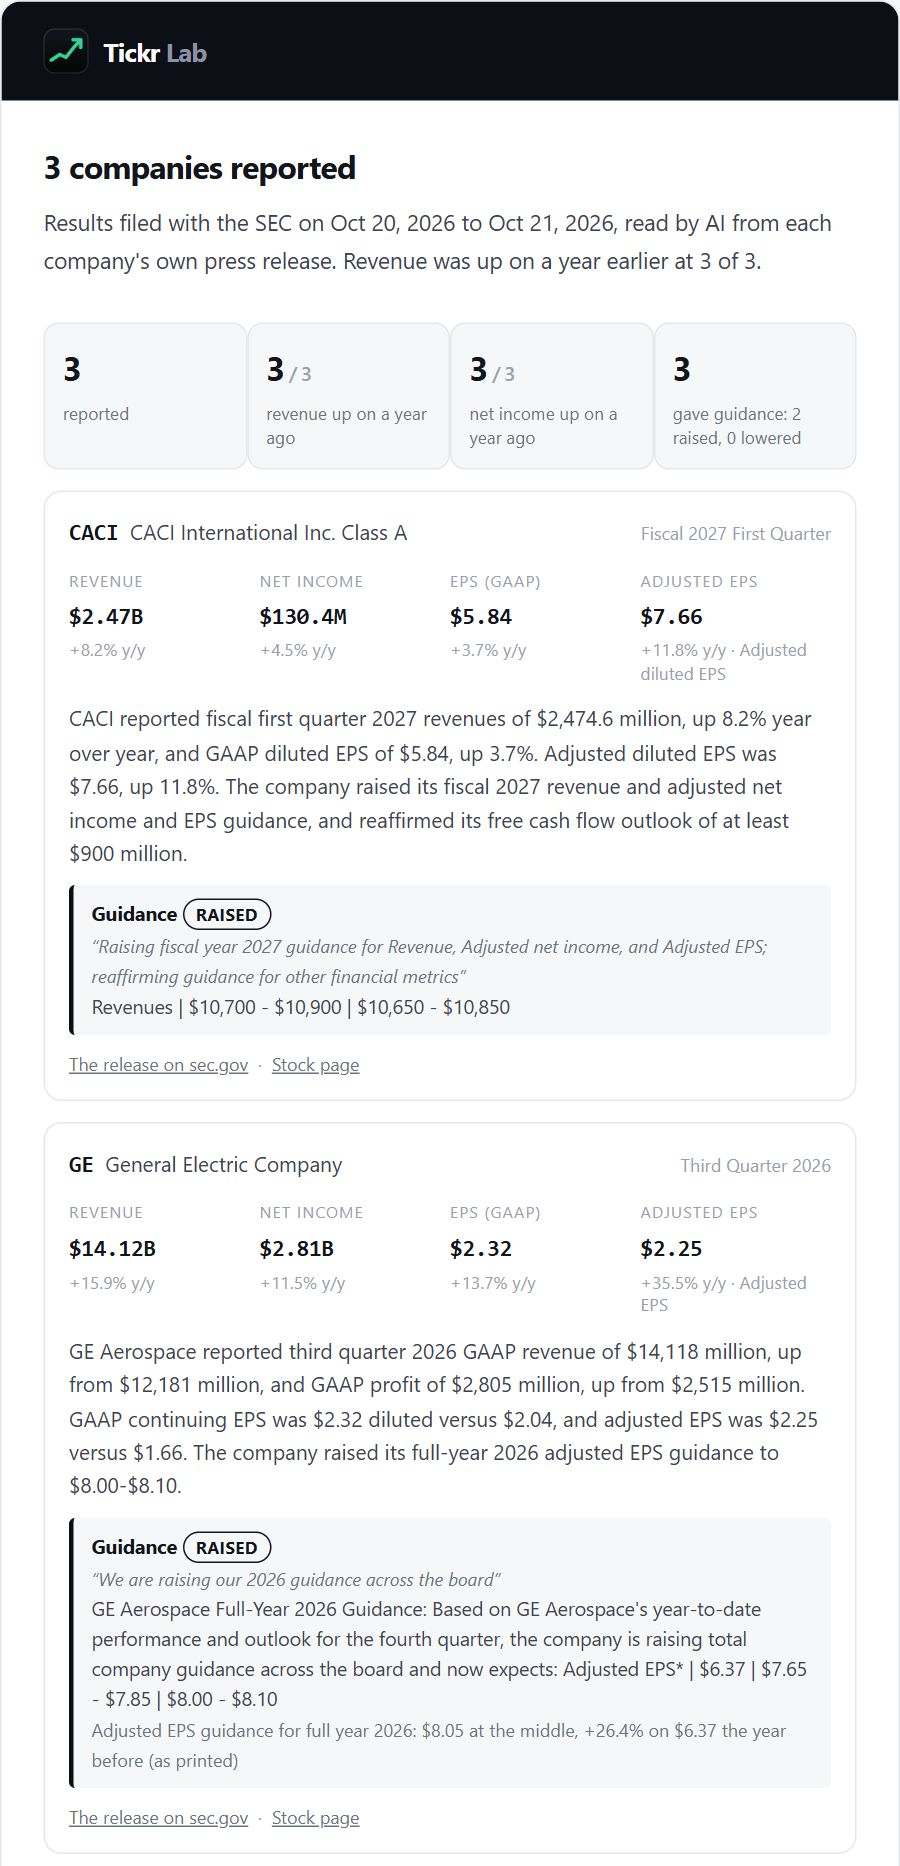
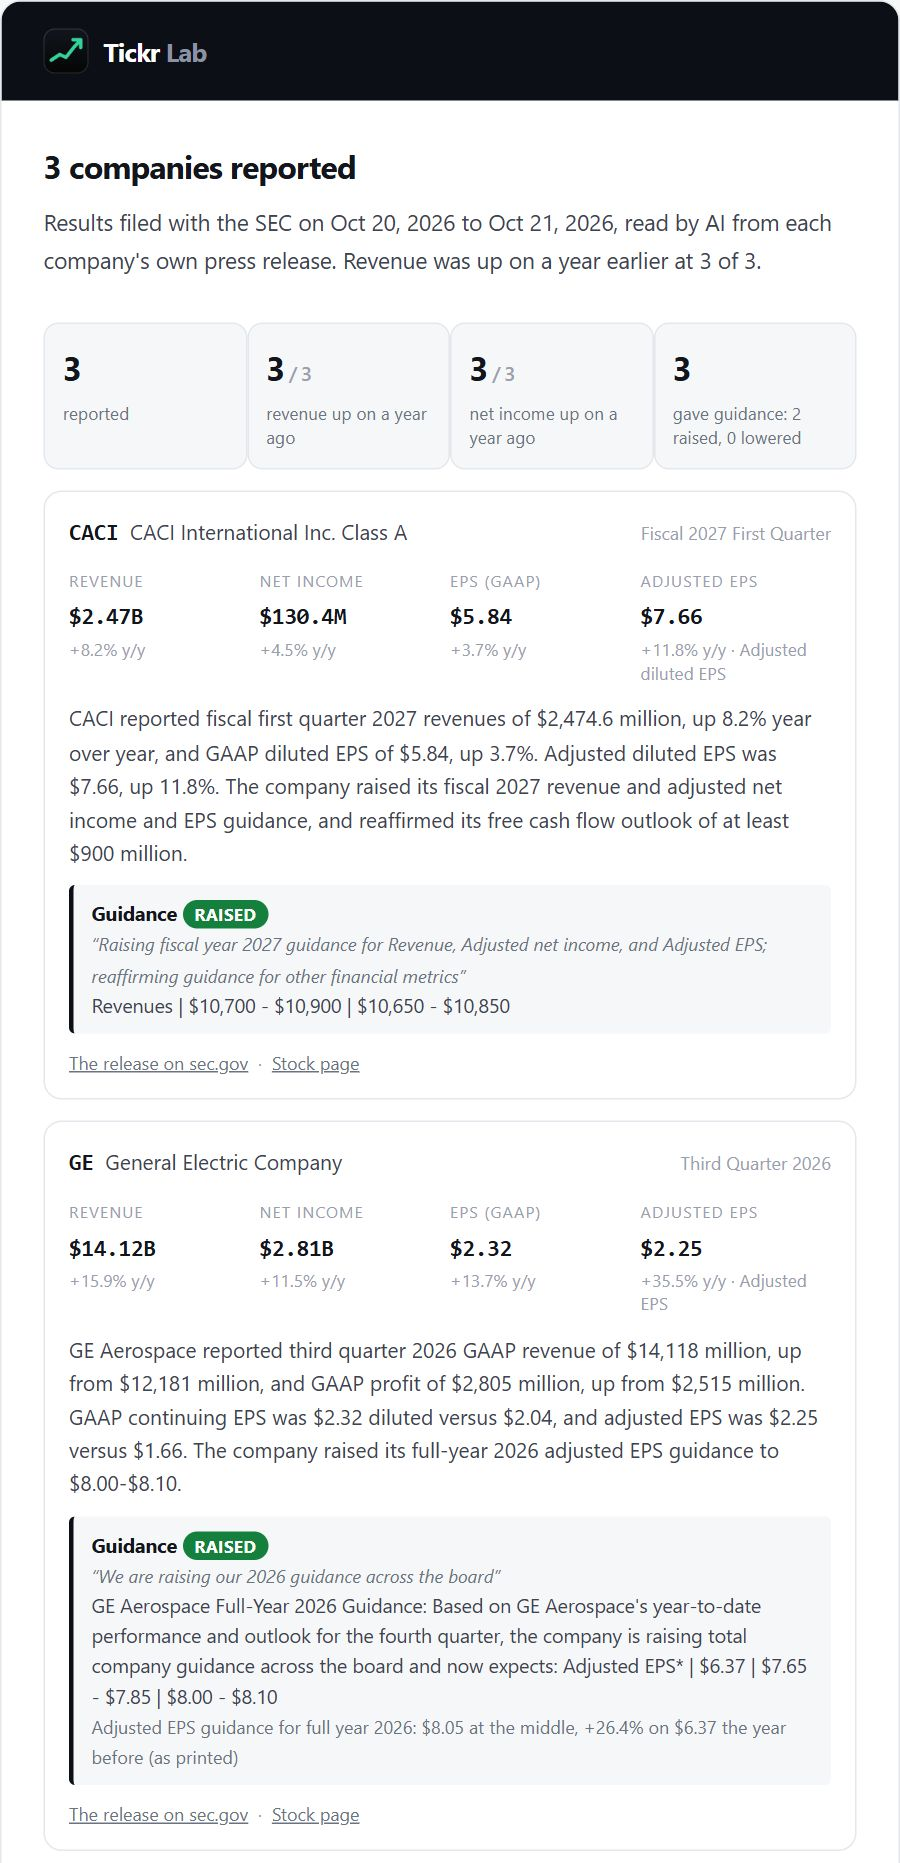
Guidance change label in colour: raised dark green, everywhere
A filled label defined once (app.css tokens and .gch, ReleaseView.changeTag,
the same hex for the email): Raised dark green, Lowered and Withdrawn dark
red, Mixed orange, Initiated blue, Reaffirmed slate. On the screener, the
public results page, the email and the stock page fields; the landing
screenshot retaken. The owner's exception to green-and-red-mean-price is
recorded in CLAUDE.md.

diff --git a/server.js b/server.js
@@ -732,7 +732,7 @@ function resultsPage(rels, names, today) {
         cell(htmlEsc(RV.money(r.netIncome, cur)), pctTxt(pct(r.netIncome, r.netIncomePrior))) +
         cell(htmlEsc(RV.eps(r.epsGaap, cur)), pctTxt(pct(r.epsGaap, r.epsGaapPrior))) +
         adj +
-        `<td class="er-sum">${htmlEsc(r.summary || '')}${r.guideSentence ? `<span class="er-guide">Guidance${r.guideChange ? ' <b class="er-ch">' + htmlEsc(r.guideChange) + '</b>' : ''}: ${htmlEsc(r.guideSentence)}</span>` : ''}</td>` +
+        `<td class="er-sum">${htmlEsc(r.summary || '')}${r.guideSentence ? `<span class="er-guide">Guidance${r.guideChange ? ' ' + RV.changeTag(r.guideChange, r.guideChangeQuote ? '“' + r.guideChangeQuote + '”' : '') : ''}: ${htmlEsc(r.guideSentence)}</span>` : ''}</td>` +
         `<td>${/^https:\/\/www\.sec\.gov\//.test(r.url || '') ? `<a href="${htmlEsc(r.url)}" target="_blank" rel="noopener">The release</a>` : ''}</td>` +
         '</tr>';
     }).join('');
@@ -3325,6 +3325,8 @@ const MAIL_DARK_RULES = (D) => [
   [['.em-card .em-panel'], `background:${D.pre};border-color:${D.line}`],
   [['.em-card div'], `color:${D.body}`],
   [['.em-card .em-ink'], `color:${D.ink};border-color:${D.ink}`],
+  // The guidance change label keeps its white ink on its own fill.
+  [['.em-card .em-pill'], 'color:#ffffff'],
   [['.em-card .em-box', '.em-card .em-row td'], `border-color:${D.line}`],
   // Scoped under .em-card deliberately: a bare .em-quiet is one class against
   // .em-card p's class-plus-element and loses, so the kicker and the captions
@@ -3620,7 +3622,9 @@ function releaseDigestEmail(rels, names) {
   // The company's word for what it did, as a small outlined label, with its
   // quote under it; then the two readings, a quiet line each.
   const gch = (r) => (r.guideChange && CHANGE[r.guideChange]
-    ? `&nbsp;<span class="em-ink"${st(`display:inline-block;padding:1px 8px;border:1px solid ${MC.ink};border-radius:999px;font-size:11px;font-weight:700;letter-spacing:0.04em;text-transform:uppercase;color:${MC.ink}`)}>${mailEsc(CHANGE[r.guideChange])}</span>`
+    // Filled in the label's colour (ReleaseView.CHANGE_HEX, the app.css tokens'
+    // values): raised dark green, as the owner asked on 2026-10-23.
+    ? `&nbsp;<span class="em-pill"${st(`display:inline-block;padding:1px 8px;border-radius:999px;background:${RV.CHANGE_HEX[r.guideChange] || '#475569'};font-size:11px;font-weight:700;letter-spacing:0.04em;text-transform:uppercase;color:#ffffff`)}>${mailEsc(CHANGE[r.guideChange])}</span>`
       + (r.guideChangeQuote ? `<br><span class="em-quiet"${st(`font-size:12px;font-style:italic;color:${MC.mute}`)}>“${mailEsc(r.guideChangeQuote)}”</span><br>` : '<br>')
     : '');
   const sgn = (p) => (p > 0 ? '+' : p < 0 ? '−' : '') + Math.abs(p).toFixed(1) + '%';

diff --git a/releases-test.js b/releases-test.js
@@ -265,6 +265,11 @@ check('request: no maxItems (the structured-output API refuses it on arrays)', !
   check('readings: a full-year revenue item is not set against a quarter', Rel.guideReadings({ revenue: 100, guides: [items[0]] }).revVsQ === null);
   check('readings: a loss year before gives no percent', Rel.guideReadings(Object.assign({}, row, { guides: [items[3]], epsGuidePrior: -1.2 })).epsVsFy === null);
   check('readings: an old row without items falls back to the headline quarter item', Math.abs(Rel.guideReadings({ revenue: 100, guideKind: 'revenue_range', guidePeriod: 'Fourth Quarter 2026', guideLow: 105, guideHigh: 115 }).revVsQ - 10) < 1e-9);
+  // The label's colours: the email's hex and the app.css tokens agree, and the tag names its class.
+  const css = require('fs').readFileSync(__dirname + '/public/app.css', 'utf8');
+  const tok = {}; for (const m of css.matchAll(/--gch-(\w+):\s*(#[0-9a-f]{6})/gi)) tok[m[1]] = m[2].toLowerCase();
+  check('label colours: every change has a token, and the email’s hex is the token’s', Object.keys(RV.CHANGE_WORD).every((k) => tok[k] && tok[k] === RV.CHANGE_HEX[k].toLowerCase()) && tok.raised === '#15803d', tok);
+  check('label: the tag carries its class and word, from a word or a key', RV.changeTag('Raised') === '<span class="gch gch-raised">Raised</span>' && RV.changeTag('lowered').includes('gch-lowered') && RV.changeTag('nonsense') === '' && RV.changeTag('Raised', 'a "q"').includes('title="a &quot;q&quot;"'));
   const fl2 = RV.fields(Object.assign({}, col.AAA, { guideRead: g }));
   check('fields: the three guidance columns and their notes', fl2.erGuideChange === 'Raised' && fl2.erGuideChangeQuote === 'q' && fl2.erEpsGuideVsFy === g.epsVsFy && /Adjusted EPS guidance for fiscal year 2027: \$33\.18 to \$34\.08, against \$30\.12/.test(fl2.erEpsGuideNote) && /Revenue guidance for fourth quarter 2026/.test(fl2.erGuideVsQNote), fl2);
 }

diff --git a/public/app.css b/public/app.css
@@ -53,6 +53,13 @@ select option, select optgroup {
      3.1:1, and the failing one was painting column headers, hover-card field
      names and every em-dash placeholder. */
   --text: #e9ecf2;             /* 17.2:1 */
+  /* The guidance change labels (2026-10-23, the owner: "raised should be dark
+     green"). The one place green and red mean something other than price:
+     what a company says it did to its outlook. Filled, with white ink, so the
+     same values read on every theme. The results email carries the same hex
+     (ReleaseView.CHANGE_HEX); releases-test.js checks the two agree. */
+  --gch-raised: #15803d; --gch-lowered: #b91c1c; --gch-withdrawn: #b91c1c;
+  --gch-mixed: #c2410c; --gch-initiated: #1d4ed8; --gch-reaffirmed: #475569; --gch-ink: #ffffff;
   --muted: #9aa3b2;            /*  7.7:1 */
   --faint: #7d8797;            /*  5.4:1 */
 
@@ -689,3 +696,8 @@ tbody tr:hover svg.spark path { stroke: var(--text); }
                  font-size: 14px; font-weight: 600; cursor: pointer; }
 .subbox button:hover { opacity: 0.88; }
 .subbox .fine { margin: 12px 0 0; font-size: 12px; color: var(--faint); }
+
+/* ---- the guidance change label (ReleaseView.changeTag) ---------------- */
+.gch { display: inline-block; padding: 1px 8px; border-radius: 999px; font: 600 10.5px/1.6 var(--sans); letter-spacing: 0.05em; text-transform: uppercase; white-space: nowrap; color: var(--gch-ink); background: var(--gch-reaffirmed); }
+.gch.gch-raised { background: var(--gch-raised); } .gch.gch-lowered { background: var(--gch-lowered); } .gch.gch-withdrawn { background: var(--gch-withdrawn); }
+.gch.gch-mixed { background: var(--gch-mixed); } .gch.gch-initiated { background: var(--gch-initiated); } .gch.gch-reaffirmed { background: var(--gch-reaffirmed); }

diff --git a/private/releaseview.js b/private/releaseview.js
@@ -77,6 +77,12 @@
     return 'The ' + (r.secForm || '10-Q') + (r.secFiled ? ' filed ' + shortDay(r.secFiled) : '') + ' has ' + said.join(', ') + '; the release’s line can be a different one.';
   }
   const CHANGE_WORD = { raised: 'Raised', lowered: 'Lowered', reaffirmed: 'Reaffirmed', initiated: 'Initiated', withdrawn: 'Withdrawn', mixed: 'Mixed' };
+  // THE LABEL'S COLOURS (the owner, 2026-10-23: raised dark green). Pages use
+  // the app.css tokens through the classes; mail cannot, so it takes these.
+  const CHANGE_HEX = { raised: '#15803d', lowered: '#b91c1c', withdrawn: '#b91c1c', mixed: '#c2410c', initiated: '#1d4ed8', reaffirmed: '#475569' };
+  // A word (Raised) or a key (raised) to the key.
+  const changeKey = (c) => { const k = String(c || '').toLowerCase(); return CHANGE_WORD[k] ? k : null; };
+  const changeTag = (c, title) => { const k = changeKey(c); return k ? '<span class="gch gch-' + k + '"' + (title ? ' title="' + esc(title) + '"' : '') + '>' + CHANGE_WORD[k] + '</span>' : ''; };
   // A guidance item's figures in words: a range, or its single figure.
   const guideRange = (g, cur, f) => (g.low != null && g.high != null ? f(g.low, cur) + ' to ' + f(g.high, cur) : f(g.mid != null ? g.mid : g.low != null ? g.low : g.high, cur));
   function fields(r) {
@@ -115,5 +121,5 @@
     });
     return o;
   }
-  root.ReleaseView = { esc, money, eps, chg, estimate, tenQ, refused, shortDay, fields, FIELD_KEYS, tenQText };
+  root.ReleaseView = { esc, money, eps, chg, estimate, tenQ, refused, shortDay, fields, FIELD_KEYS, tenQText, CHANGE_WORD, CHANGE_HEX, changeKey, changeTag };
 })(typeof window !== 'undefined' ? window : globalThis);

diff --git a/private/landing.html b/private/landing.html
@@ -532,7 +532,7 @@
       <div>
         <div class="ermail">
           <div class="bar"><b>Tickr Lab</b><span>[Tickr Lab] Earnings results: 49 companies, Oct 21, 2026</span></div>
-          <div class="img"><img src="/img/landing/email-results.jpg" width="900" height="1866" alt="The Tickr Lab results email: three companies reported, then a card for CACI and one for GE, each with revenue, net income, GAAP and adjusted EPS, the AI summary, and guidance marked Raised with the company's own words" loading="lazy" /></div>
+          <div class="img"><img src="/img/landing/email-results.jpg" width="900" height="1864" alt="The Tickr Lab results email: three companies reported, then a card for CACI and one for GE, each with revenue, net income, GAAP and adjusted EPS, the AI summary, and guidance marked Raised with the company's own words" loading="lazy" /></div>
         </div>
         <p class="note">The results digest, as it arrives after each reading (releases of October 20 and 21, 2026). It goes to the Tickr Lab team; the same results are on the public results page and in the screener.</p>
       </div>

diff --git a/private/rowcard.js b/private/rowcard.js
@@ -512,7 +512,8 @@
     // Was 'Guide vs quarter' until 2026-10-23 (server.js FIELD_KEY_MOVED reads the old key as this).
     ['aier',  'Rev guide vs Q', (s) => V.smag(s.erGuideVsQ)],
     ['aier',  'EPS guide vs FY', (s) => V.smag(s.erEpsGuideVsFy)],
-    ['aier',  'Guidance change', (s) => V.text(s.erGuideChange)],
+    // Coloured as the owner asked (2026-10-23): Raised up, Lowered and Withdrawn down, Mixed amber.
+    ['aier',  'Guidance change', (s) => (s.erGuideChange ? { t: s.erGuideChange, c: /^Raised$/.test(s.erGuideChange) ? 'pos' : /^(Lowered|Withdrawn)$/.test(s.erGuideChange) ? 'neg' : /^Mixed$/.test(s.erGuideChange) ? 'warn' : '' } : null)],
     ['aier',  'Outlook',        (s) => V.text(s.erGuide)],
     ['aier',  '10-Q',           (s) => (s.erTenQ ? { t: s.erTenQ, c: s.erTenQ === 'Differs' ? 'warn' : '' } : null)],
     ['aier',  'Summary',        (s) => V.text(s.erSummary)],

diff --git a/private/index.html b/private/index.html
@@ -4409,7 +4409,7 @@
             (s.erVsEstBasis === 'adjusted' ? 'Adjusted' : 'GAAP') + ' EPS against the provider\u2019s estimate of ' + RV.eps(s.erEst, cur)),
         signedPctCell(s.erGuideVsQ, 'grp-aier', s.erGuideVsQNote || ''),
         signedPctCell(s.erEpsGuideVsFy, 'grp-aier', s.erEpsGuideNote || ''),
-        s.erGuideChange ? td(we(s.erGuideChange), '“' + (s.erGuideChangeQuote || '') + '”', 'left') : `<td class="left grp-aier na">—</td>`,
+        s.erGuideChange ? td(RV.changeTag(s.erGuideChange), '“' + (s.erGuideChangeQuote || '') + '”', 'left') : `<td class="left grp-aier na">—</td>`,
         txt(s.erGuide),
         s.erTenQ ? td(we(s.erTenQ), s.erTenQNote || '', 'left' + (s.erTenQ === 'Differs' ? ' er-amb' : '')) : `<td class="left grp-aier na">\u2014</td>`,
         txt(s.erSummary),

diff --git a/private/results.html b/private/results.html
@@ -64,7 +64,6 @@
     .er-t .er-sub { display: block; color: var(--faint); font-size: 11.5px; margin-top: 3px; white-space: normal; }
     .er-t .er-sum { color: var(--muted); line-height: 1.55; max-width: 60ch; }
     .er-t .er-guide { display: block; margin-top: 6px; color: var(--faint); font-size: 12px; }
-    .er-t .er-guide .er-ch { font-weight: 600; color: var(--text); text-transform: capitalize; }
     .er-t a { color: var(--accent, var(--green)); text-decoration: none; font-size: 12px; white-space: nowrap; }
     .er-t a:hover { text-decoration: underline; }
 

diff --git a/docs/context/earnings-releases.md b/docs/context/earnings-releases.md
@@ -235,3 +235,4 @@ The owner: "Guide vs quarter focuses on revenue, We should rename the field, Als
 - **Tested:** 24 new checks in `releases-test.js` (112 in all), three of them proved by reverting their guard (the costs refusal, the initiated words, adjusted-without-prior blank); and 13 drawn checks on the screener over an in-memory database (headers renamed and in order, every value under its own header by position, the notes, an old reading, the guidance-only write, row width), proved by dropping one cell (5 fail). The email and public page suites still pass.
 - **The re-read, 2026-10-23 05:46 ET:** 153 results releases since 2026-09-08, $0.37, 11 minutes, none failed. 71 carry guidance; 38 a stated change (raised 23, reaffirmed 10, initiated 3, lowered 1, withdrawn 1), 33 changes refused by the checks. Coverage: Rev guide vs Q 11, EPS guide vs FY 17 (5 adjusted against a printed prior, 12 GAAP against the 10-K), Guidance change 38. EPS guide vs FY is lower than the 37 full-year EPS guiders suggested: most guide adjusted EPS and print no prior figure, and those stay blank by design.
 - **The email, updated the same day:** the stated change as an outlined label beside "Guidance", the company's words under it in italics, then the sentence, then a quiet line each for next quarter's revenue guidance against this quarter and full-year EPS guidance against the year before. The fourth summary box counts raised and lowered. 85 KB for a 49-company day.
+- **The label in colour** (2026-10-23, the owner: "raised should be dark green .. across the website and email and screener"): a filled label with white ink, Raised dark green #15803d, Lowered and Withdrawn dark red #b91c1c, Mixed orange #c2410c, Initiated blue #1d4ed8, Reaffirmed slate #475569. The one exception to green-and-red-mean-price, recorded in CLAUDE.md. Defined once: tokens `--gch-*` and the `.gch` label in `app.css`, `ReleaseView.changeTag` for pages (screener cell, public `/results`), `ReleaseView.CHANGE_HEX` for the email (which cannot read CSS); `releases-test.js` checks the hex and the tokens agree. The row card (stock page All fields, tiles, phone) colours the word with its up/down classes. The landing screenshot was retaken. Drawn checks: dark green with white ink on Dark, Navy and Light; slate for Reaffirmed; the email dark mode keeps the white ink (`.em-pill`).

diff --git a/CLAUDE.md b/CLAUDE.md
@@ -151,7 +151,7 @@ Port 3000. Needs `.env` with `TWELVE_DATA_API_KEY`, `TURSO_DATABASE_URL`, `TURSO
 - No build step: vanilla JS, plain CSS. The design system is `public/app.css`; each page keeps only its own layout in one inline `<style>` block. Dark and light themes through the tokens: never write a colour into a stylesheet, use a token or a color-mix() of one (see `themes`); a page joins the light theme only when converted and marked `data-themeable`. No emoji, icon fonts or company logos.
 - One implementation per concept, in a shared module loaded by page, server and phone. Never a second copy in a page.
 - Scope every new CSS selector; unscoped classes (`.warn`, `.card`, `.sub`) have captured later markup nine times.
-- Green and red mean price up and down only. Amber means "notice this, it is stale or wrong". Other series use accent, blue or orange.
+- Green and red mean price up and down only, with one exception by the owner (2026-10-23): the guidance change label, Raised dark green and Lowered/Withdrawn dark red (tokens `--gch-*` in app.css, `ReleaseView.changeTag`). Amber means "notice this, it is stale or wrong". Other series use accent, blue or orange.
 - On the screener the page never scrolls; anything that appears above the table calls `paintWindow(true)`. Labels over a stretched SVG are HTML overlays, never SVG text.
 - Admin-only UI uses class `admin-only`, toggled by `applyAdminUI()`. The page-level escaper in `index.html` is `we()`.
 - No new dependencies for small jobs.
